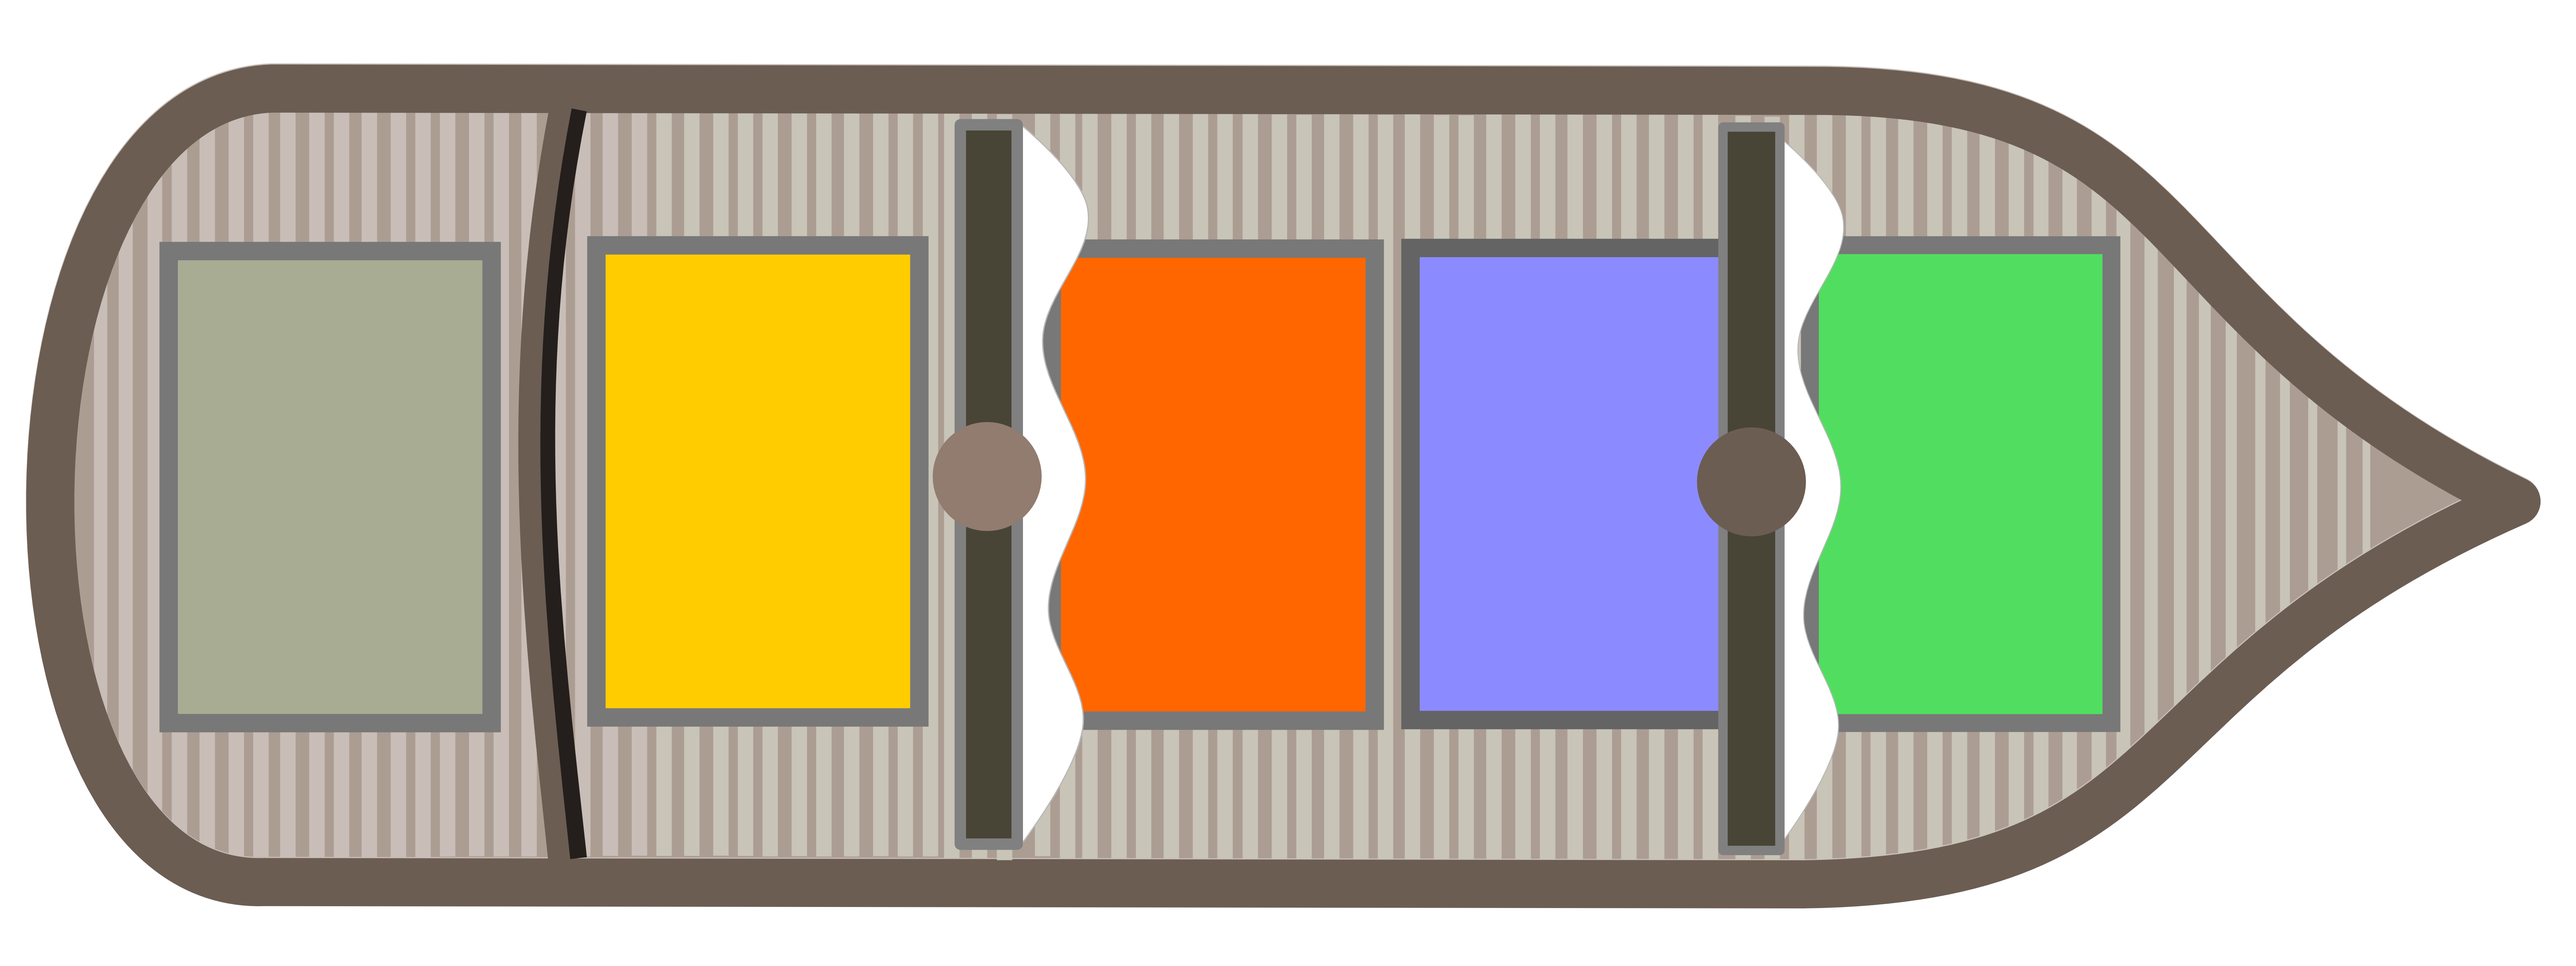
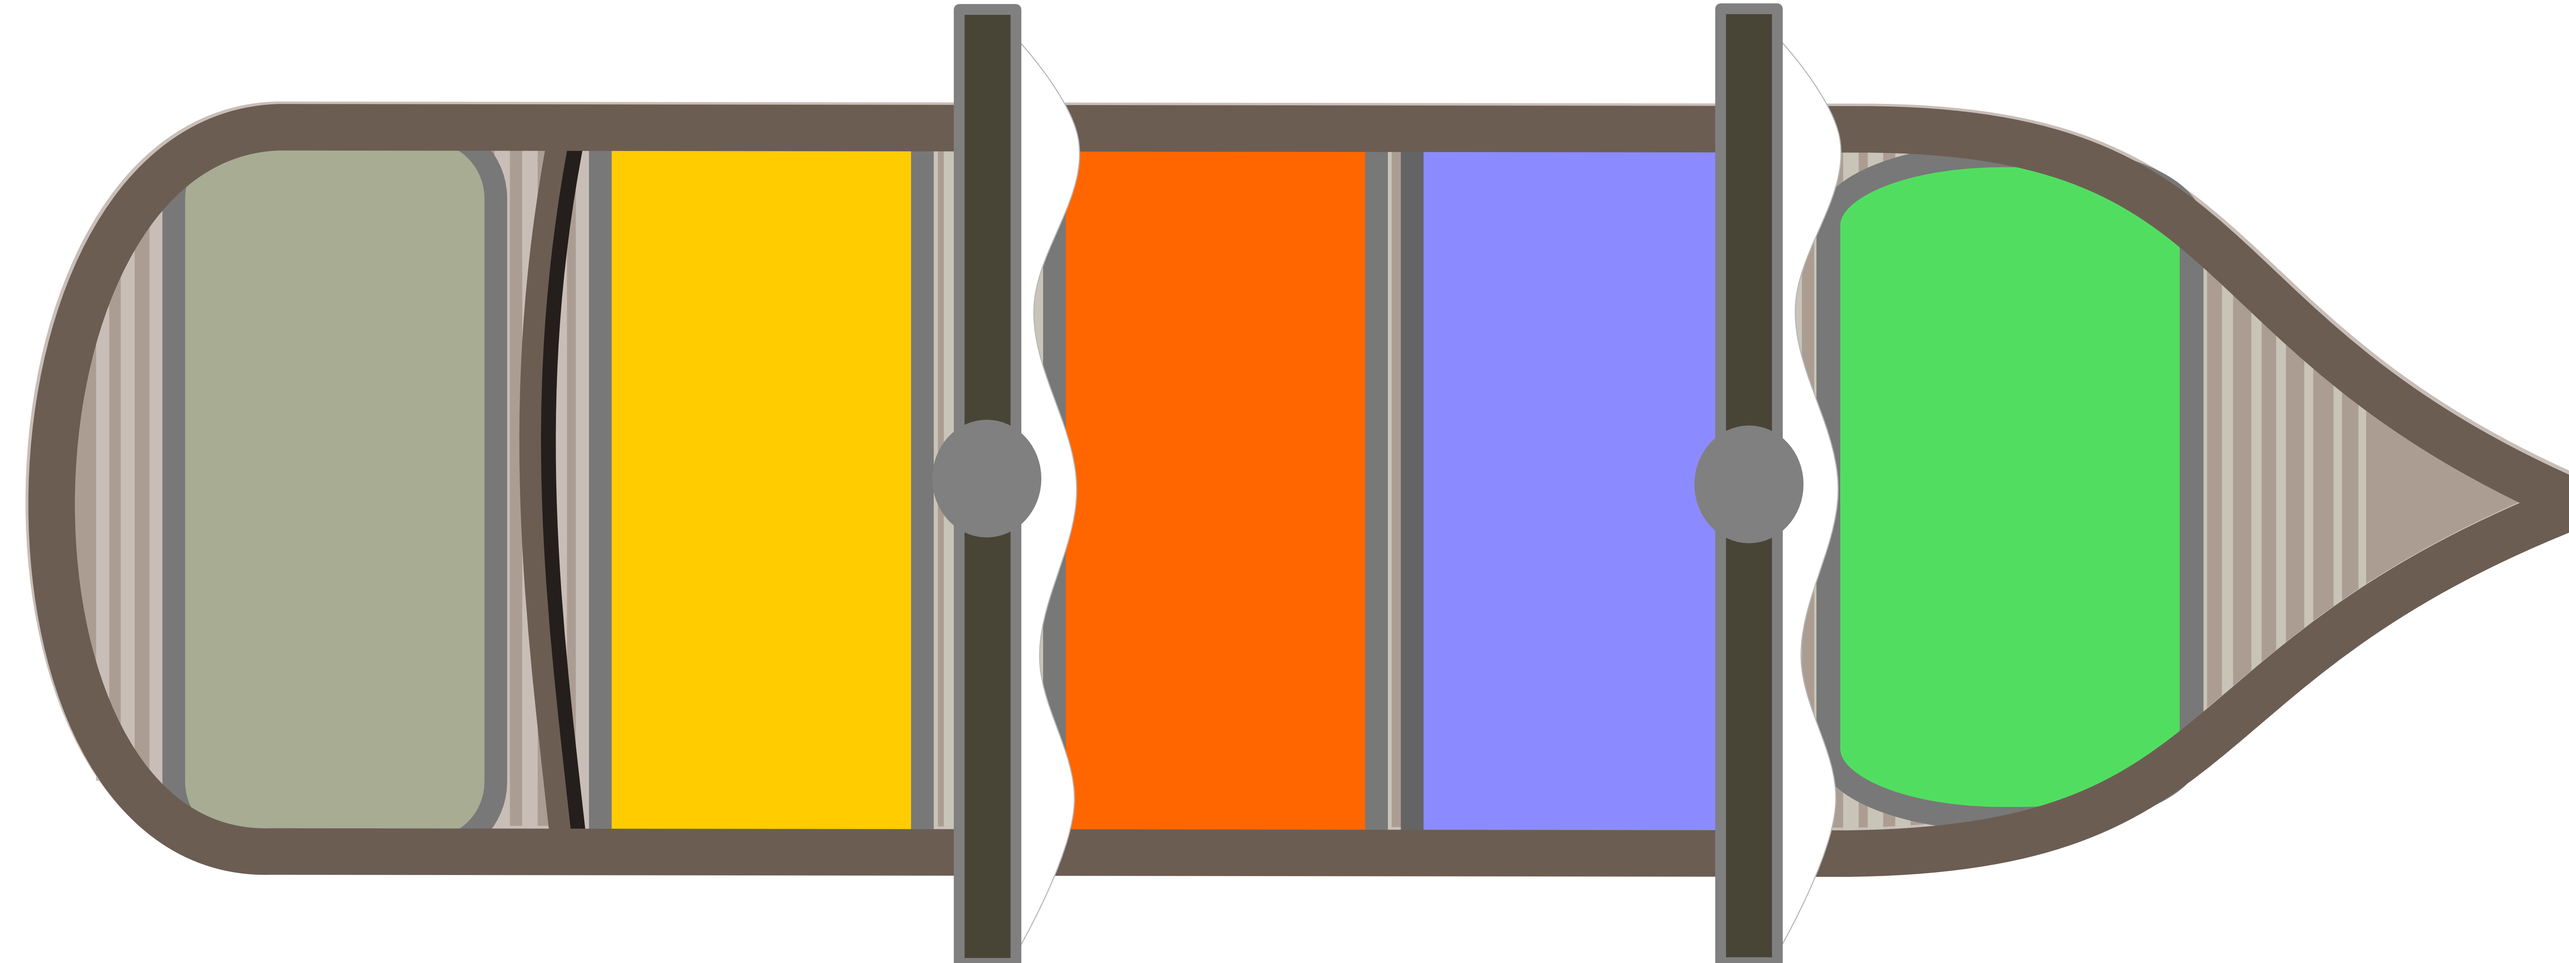
Boats are smaller, which means they are more manuverable -> can evade icebergs

diff --git a/desktop/src/main/nl/tudelft/ti2806/riverrush/graphics/entity/BoatGroup.java b/desktop/src/main/nl/tudelft/ti2806/riverrush/graphics/entity/BoatGroup.java
@@ -22,7 +22,8 @@ import java.util.HashMap;
  */
 public class BoatGroup extends Group {
 
-    private final int SIZE = 900;
+    private final int BOAT_HEIGHT = 600;
+    private final int BOAT_WIDTH = 800;
 
     private final ArrayList<BoatSector> sectors;
 
@@ -30,8 +31,8 @@ public class BoatGroup extends Group {
 
     private static final float MOVE_DISTANCE = 400;
     private static final double HITBOX_OFFSET = 0.3;
-    private static final float SECTOR_DIVIDING_DISTANCE = 45f;
-    private static final float SECTOR_INIT_POS = 65f;
+    private static final float SECTOR_DIVIDING_DISTANCE = 32f;
+    private static final float SECTOR_INIT_POS = 55f;
 
     private static final int COL_COUNT = 2;
     private static final int ROW_COUNT = 5;
@@ -55,9 +56,9 @@ public class BoatGroup extends Group {
     @Inject
     public BoatGroup(final float xpos, final float ypos, final int teamID) {
         this.setX(xpos);
-        this.setY(ypos);
-        this.setWidth(this.SIZE);
-        this.setHeight(this.SIZE);
+        this.setY(ypos - BOAT_HEIGHT /2);
+        this.setWidth(this.BOAT_WIDTH);
+        this.setHeight(this.BOAT_HEIGHT);
 
         this.origY = ypos;
         if (teamID % 2 == 0) {
@@ -75,7 +76,10 @@ public class BoatGroup extends Group {
         for (int i = Sector.countSectors() - 1; i >= 0; i--) {
             float extra = 0f;
             if (i == 2) {
-                extra = 30f;
+                extra = 10f;
+            }
+            if (i > 2) {
+                extra = -12f;
             }
             BoatSector sec = new BoatSector(ROW_COUNT, COL_COUNT);
             float secPosX = SECTOR_INIT_POS + ((SECTOR_DIVIDING_DISTANCE + sec.getWidth()) * i) + extra;

diff --git a/desktop/src/main/nl/tudelft/ti2806/riverrush/screen/PlayingGameScreen.java b/desktop/src/main/nl/tudelft/ti2806/riverrush/screen/PlayingGameScreen.java
@@ -173,7 +173,7 @@ public class PlayingGameScreen implements Screen {
      */
     public void addBoat(final Team team) {
         BoatGroup boat = new BoatGroup(Gdx.graphics.getWidth() * 0.02f,
-            (Gdx.graphics.getHeight() / 2) - 450, team.getId());
+            (Gdx.graphics.getHeight() / 2), team.getId());
         boat.init();
 
         if (team.getId() % 2 == 0) { // TODO: Temporary hard coding
